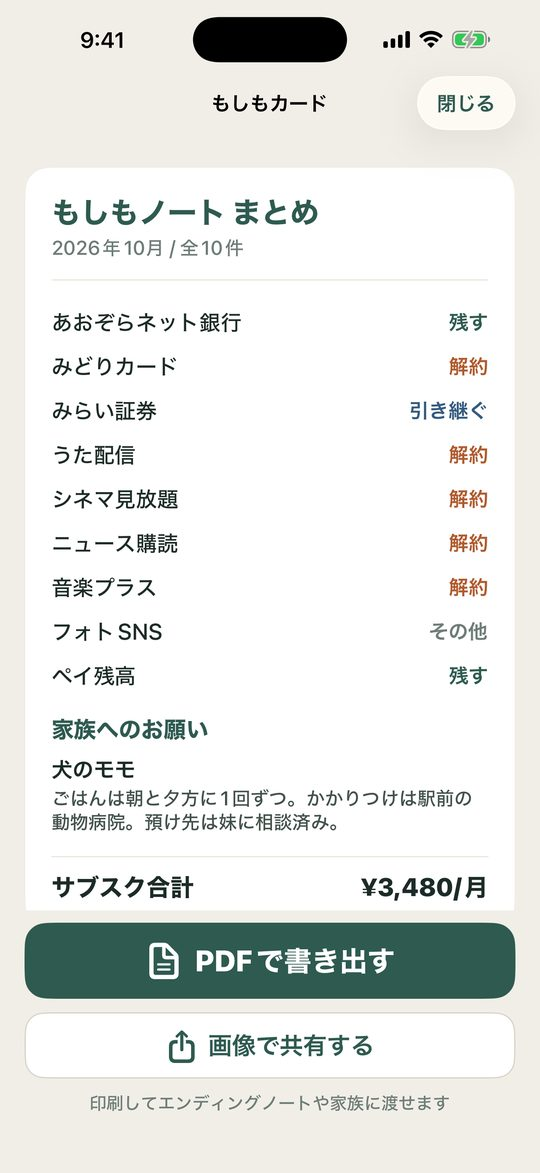
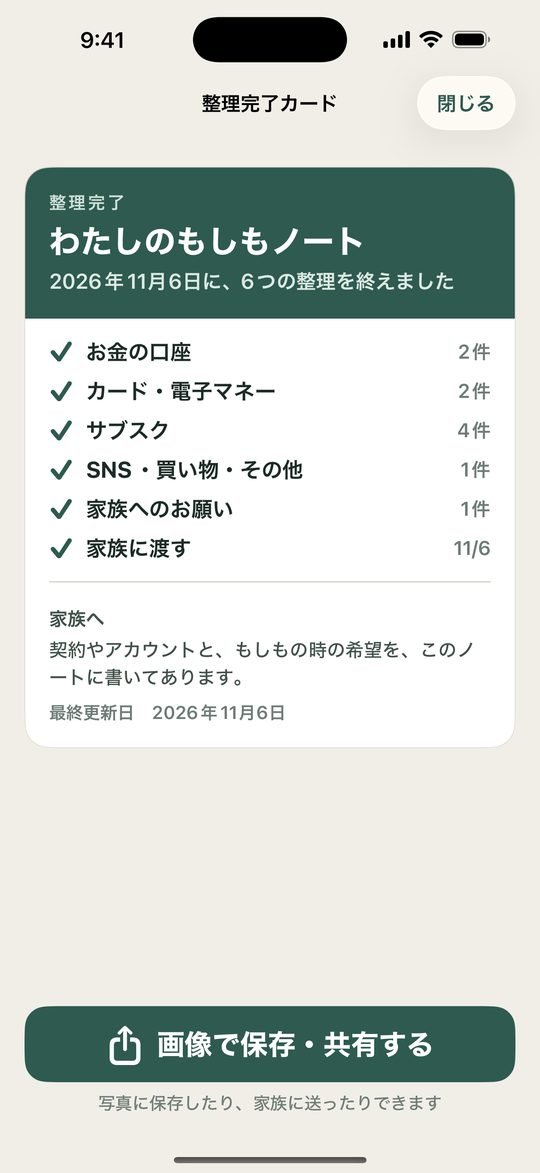
lp: もしもノート 1.2.0 の機能追加を反映

diff --git a/moshimonote/index.html b/moshimonote/index.html
@@ -4,7 +4,7 @@
 <meta charset="UTF-8">
 <meta name="viewport" content="width=device-width, initial-scale=1.0">
 <title>もしもノート 終活エンディングノート デジタル遺品整理｜iPhoneアプリ</title>
-<meta name="description" content="スマホの中のネット銀行・クレジットカード・サブスクを書いておくだけ。もしもの時、家族が解約・整理に困りません。情報は端末の中だけ（クラウドに上げません）。家族へのお願い（ペット・葬儀の希望）や、機種変更用の鍵つきバックアップにも対応。大きな文字で、どなたでもかんたんに。">
+<meta name="description" content="スマホの中のネット銀行・クレジットカード・サブスクを書いておくだけ。整理の進み具合が「家族が困らない度」でひと目でわかり、6つのステップで最後まで整えられます。件数の上限なく無料で書けて、情報は端末の中だけ。大きな文字で、どなたでもかんたんに。">
 <link rel="canonical" href="https://madeinchimpanzee.github.io/app-legal/moshimonote/">
 <link rel="icon" href="img/icon.png">
 <link rel="apple-touch-icon" href="img/icon.png">
@@ -12,13 +12,13 @@
 <script defer src="https://static.cloudflareinsights.com/beacon.min.js" data-cf-beacon='{"token": "19cc6d39518c47219628c5f1152f72c9"}'></script>
 <meta property="og:type" content="website">
 <meta property="og:title" content="もしもノート 終活エンディングノート デジタル遺品整理｜iPhoneアプリ">
-<meta property="og:description" content="スマホの中のネット銀行・クレジットカード・サブスクを書いておくだけ。もしもの時、家族が解約・整理に困りません。情報は端末の中だけ（クラウドに上げません）。家族へのお願い（ペット・葬儀の希望）や、機種変更用の鍵つきバックアップにも対応。大きな文字で、どなたでもかんたんに。">
+<meta property="og:description" content="スマホの中のネット銀行・クレジットカード・サブスクを書いておくだけ。整理の進み具合が「家族が困らない度」でひと目でわかり、6つのステップで最後まで整えられます。件数の上限なく無料で書けて、情報は端末の中だけ。大きな文字で、どなたでもかんたんに。">
 <meta property="og:url" content="https://madeinchimpanzee.github.io/app-legal/moshimonote/">
 <meta property="og:image" content="https://madeinchimpanzee.github.io/app-legal/moshimonote/img/og.jpg">
 <meta property="og:locale" content="ja_JP">
 <meta name="twitter:card" content="summary_large_image">
 <meta name="apple-itunes-app" content="app-id=6790240113">
-<script type="application/ld+json">{"@context": "https://schema.org", "@type": "SoftwareApplication", "name": "もしもノート 終活エンディングノート デジタル遺品整理", "operatingSystem": "iOS", "applicationCategory": "MobileApplication", "description": "スマホの中のネット銀行・クレジットカード・サブスクを書いておくだけ。もしもの時、家族が解約・整理に困りません。情報は端末の中だけ（クラウドに上げません）。家族へのお願い（ペット・葬儀の希望）や、機種変更用の鍵つきバックアップにも対応。大きな文字で、どなたでもかんたんに。", "image": "https://madeinchimpanzee.github.io/app-legal/moshimonote/img/icon.png", "url": "https://madeinchimpanzee.github.io/app-legal/moshimonote/", "installUrl": "https://apps.apple.com/jp/app/id6790240113?ct=lp", "offers": {"@type": "Offer", "price": "0", "priceCurrency": "JPY"}, "author": {"@type": "Organization", "name": "MadeInChimpanzee"}}</script>
+<script type="application/ld+json">{"@context": "https://schema.org", "@type": "SoftwareApplication", "name": "もしもノート 終活エンディングノート デジタル遺品整理", "operatingSystem": "iOS", "applicationCategory": "MobileApplication", "description": "スマホの中のネット銀行・クレジットカード・サブスクを書いておくだけ。整理の進み具合が「家族が困らない度」でひと目でわかり、6つのステップで最後まで整えられます。件数の上限なく無料で書けて、情報は端末の中だけ。大きな文字で、どなたでもかんたんに。", "image": "https://madeinchimpanzee.github.io/app-legal/moshimonote/img/icon.png", "url": "https://madeinchimpanzee.github.io/app-legal/moshimonote/", "installUrl": "https://apps.apple.com/jp/app/id6790240113?ct=lp", "offers": {"@type": "Offer", "price": "0", "priceCurrency": "JPY"}, "author": {"@type": "Organization", "name": "MadeInChimpanzee"}}</script>
 <script type="application/ld+json">{"@context": "https://schema.org", "@type": "FAQPage", "mainEntity": [{"@type": "Question", "name": "料金はかかりますか？", "acceptedAnswer": {"@type": "Answer", "text": "無料でダウンロード。追加機能は買い切り（¥800）で解放できます。"}}, {"@type": "Question", "name": "入力したデータはどこに保存されますか？", "acceptedAnswer": {"@type": "Answer", "text": "お使いの iPhone の中にのみ保存されます。アカウント登録もログインも不要です。"}}, {"@type": "Question", "name": "対応機種は？", "acceptedAnswer": {"@type": "Answer", "text": "iPhone（App Store から入手）。"}}, {"@type": "Question", "name": "問い合わせ先は？", "acceptedAnswer": {"@type": "Answer", "text": "メール suportapps44@gmail.com までご連絡ください。"}}]}</script>
 <style>
 :root{--accent:#C25A43;--accent-dark:#974634;--accent-tint:#F7EBE8;--ink:#1F2430;--muted:#5F6673;--line:#E6E8EC;--bg:#FFFFFF}
@@ -94,7 +94,7 @@ footer .notice{font-size:11.5px;margin-top:10px}
     <img class="icon" src="img/icon.png" alt="もしもノート のアイコン" width="96" height="96">
     <h1>もしもノート 終活エンディングノート デジタル遺品整理</h1>
     <p class="sub">サブスク・アカウントを家族へ残す相続メモ</p>
-    <p class="lead">スマホの中のネット銀行・クレジットカード・サブスクを書いておくだけ。もしもの時、家族が解約・整理に困りません。情報は端末の中だけ（クラウドに上げません）。家族へのお願い（ペット・葬儀の希望）や、機種変更用の鍵つきバックアップにも対応。大きな文字で、どなたでもかんたんに。</p>
+    <p class="lead">スマホの中のネット銀行・クレジットカード・サブスクを書いておくだけ。整理の進み具合が「家族が困らない度」でひと目でわかり、6つのステップで最後まで整えられます。件数の上限なく無料で書けて、情報は端末の中だけ。大きな文字で、どなたでもかんたんに。</p>
     <a class="btn" href="https://apps.apple.com/jp/app/id6790240113?ct=lp" rel="noopener"><svg viewBox="0 0 24 24" aria-hidden="true"><path d="M16.7 12.6c0-2.6 2.1-3.8 2.2-3.9-1.2-1.8-3.1-2-3.7-2-1.6-.2-3.1.9-3.9.9-.8 0-2-.9-3.3-.9-1.7 0-3.3 1-4.2 2.5-1.8 3.1-.5 7.8 1.3 10.3.9 1.2 1.9 2.6 3.2 2.6 1.3-.1 1.8-.8 3.3-.8s2 .8 3.3.8c1.4 0 2.3-1.3 3.1-2.5 1-1.4 1.4-2.8 1.4-2.9-.1 0-2.7-1-2.7-4.1zM14.2 5c.7-.8 1.1-2 1-3.1-1 0-2.2.7-2.9 1.5-.6.7-1.2 1.9-1 3 1.1.1 2.2-.5 2.9-1.4z"/></svg>App Store からダウンロード</a>
     <p class="price">無料でダウンロード。追加機能は買い切り（¥800）で解放できます。</p>
   </div>
@@ -104,12 +104,12 @@ footer .notice{font-size:11.5px;margin-top:10px}
 <section><div class="wrap">
   <h2>できること</h2>
   <div class="cards">
+<div class="card"><h3>家族が困らない度で、整理の進み具合が見える</h3><p>整理を6つのステップ（お金の口座／カード・電子マネー／サブスク／SNS・買い物・その他／家族へのお願い／家族に渡す）に分けて、どこまで進んだかを％で表示します。分類ごとに「書き終えた」「使っていない」の印を付けて、ひとつずつ進められます。節目に着くとお知らせします。</p></div>
 <div class="card"><h3>契約・アカウントを書いておく</h3><p>ネット銀行・証券・クレジットカード・サブスク・SNS・電子マネーなどを、種別を選んでかんたんに登録。どこにあるか・内容をメモできます。</p></div>
 <div class="card"><h3>思い出しリストで、選ぶだけ</h3><p>「何を使っていたか思い出せない」ときは、よく使われる銀行・証券・クレジットカード・サブスク・電子マネーなどの一覧から、チェックを入れるだけでまとめて書いておけます。iPhoneで払っているサブスクの確認画面にもすぐ移れます。</p></div>
 <div class="card"><h3>家族へのお願いも残せる</h3><p>ペットの世話、葬儀の希望、連絡してほしい人、保険・年金・ポイントの書類の在りか——口で伝えそびれがちなことを、自由なメモで書いておけます。もしもカードにも「家族へのお願い」の章として入ります。</p></div>
 <div class="card"><h3>もしもの希望を添える</h3><p>「残してほしい」「家族に引き継ぐ」「解約してほしい」など、もしもの時の希望を一緒に残せます。</p></div>
 <div class="card"><h3>毎月のサブスクが見える</h3><p>登録したサブスクの月額合計をまとめて表示。使っていない契約の見直しにも役立ちます。</p></div>
-<div class="card"><h3>家族に渡せる1枚に（買い切りで解放）</h3><p>登録した内容を1枚のまとめ（もしもカード）にして、PDFで書き出し・印刷。エンディングノートや家族に渡せます。解放する前に、ご自分の内容で作った見本を確かめられます。</p></div>
   </div>
 </div></section>
 
@@ -124,6 +124,7 @@ footer .notice{font-size:11.5px;margin-top:10px}
 <figure class="shot"><img src="img/ss-06.jpg" alt="もしもノート の画面 6" loading="lazy" width="540"></figure>
 <figure class="shot"><img src="img/ss-07.jpg" alt="もしもノート の画面 7" loading="lazy" width="540"></figure>
 <figure class="shot"><img src="img/ss-08.jpg" alt="もしもノート の画面 8" loading="lazy" width="540"></figure>
+<figure class="shot"><img src="img/ss-09.jpg" alt="もしもノート の画面 9" loading="lazy" width="540"></figure>
   </div>
 </div></section>
 
@@ -134,6 +135,8 @@ footer .notice{font-size:11.5px;margin-top:10px}
 <p>いま、お金や契約の多くがスマホやネットの中にあります。ネット銀行・証券、クレジットカード、動画や音楽のサブスク、SNS、電子マネー——本人しか知らないものばかり。もしもの時、家族は存在に気づけず、サブスクが払い続けられたり、カードの年会費が引き落とされ続けたり、口座が分からないままになりがちです。</p>
 <p>もしもノートなら、それらを1か所に書いておくだけ。「もしもの時はどうしてほしいか（残してほしい／解約してほしい 等）」も添えられます。情報はこの端末の中だけに保存し、クラウドには上げません。</p>
 <h2>できること</h2>
+<h3>家族が困らない度で、整理の進み具合が見える</h3>
+<p>整理を6つのステップ（お金の口座／カード・電子マネー／サブスク／SNS・買い物・その他／家族へのお願い／家族に渡す）に分けて、どこまで進んだかを％で表示します。分類ごとに「書き終えた」「使っていない」の印を付けて、ひとつずつ進められます。節目に着くとお知らせします。</p>
 <h3>契約・アカウントを書いておく</h3>
 <p>ネット銀行・証券・クレジットカード・サブスク・SNS・電子マネーなどを、種別を選んでかんたんに登録。どこにあるか・内容をメモできます。</p>
 <h3>思い出しリストで、選ぶだけ</h3>
@@ -144,8 +147,13 @@ footer .notice{font-size:11.5px;margin-top:10px}
 <p>「残してほしい」「家族に引き継ぐ」「解約してほしい」など、もしもの時の希望を一緒に残せます。</p>
 <h3>毎月のサブスクが見える</h3>
 <p>登録したサブスクの月額合計をまとめて表示。使っていない契約の見直しにも役立ちます。</p>
-<h3>家族に渡せる1枚に（買い切りで解放）</h3>
-<p>登録した内容を1枚のまとめ（もしもカード）にして、PDFで書き出し・印刷。エンディングノートや家族に渡せます。解放する前に、ご自分の内容で作った見本を確かめられます。</p>
+<h3>最後まで整える道しるべ（買い切りで解放）</h3>
+<ul>
+<li>抜けの点検：メモや月額の書き忘れを、分類ごとに教えます。その場で直せます</li>
+<li>整理完了カード：6つのステップを終えたら、記念の1枚を保存・共有できます</li>
+<li>家族に渡せる1枚に：登録した内容をもしもカードにまとめて、PDFで書き出し・印刷（最終更新日入り）。解放する前に、ご自分の内容で作った見本を確かめられます</li>
+<li>年に1回の見直しのお知らせ：決めた日に、古くなっていないか確かめられます</li>
+</ul>
 <h3>機種変更のときも安心（無料）</h3>
 <p>パスワードで鍵をかけたバックアップファイルを作り、新しいiPhoneで開けば書いた内容を戻せます。戻すときは「今の内容に足す」か「置きかえる」かを選べます。鍵をかけずに書き出すことはできません。パスワードを忘れると誰にも戻せないので、大切に保管してください。</p>
 <h3>どなたでもかんたんに</h3>
@@ -154,7 +162,7 @@ footer .notice{font-size:11.5px;margin-top:10px}
 <p>情報はすべてこの端末の中だけに保存され、アプリがクラウドに上げることはありません（バックアップファイルは暗号化され、保存先はご自身で選びます）。ログイン不要・アカウント登録不要。必要なら、起動時に Face ID／パスコードのロックもかけられます。</p>
 <p class="note">※ パスワードそのものは保存せず、ヒントだけを書く使い方をおすすめします。</p>
 <h2>料金</h2>
-<p>5件まで無料でお使いいただけます。買い切り¥800で、いくつでも登録でき、家族に渡せる書き出し（もしもカード）が使えます。月額ではありません。</p>
+<p>書くこと自体は、件数の上限なくずっと無料です。買い切り¥800で、抜けの点検・整理完了カード・家族に渡せる書き出し（もしもカード）・年1回の見直しのお知らせが使えます。月額ではありません。</p>
 <p class="note">※ 本アプリは家族に残すためのメモであり、相続・終活や各種手続きに関する助言・案内は行いません。</p>
   </div>
 </div></section>
